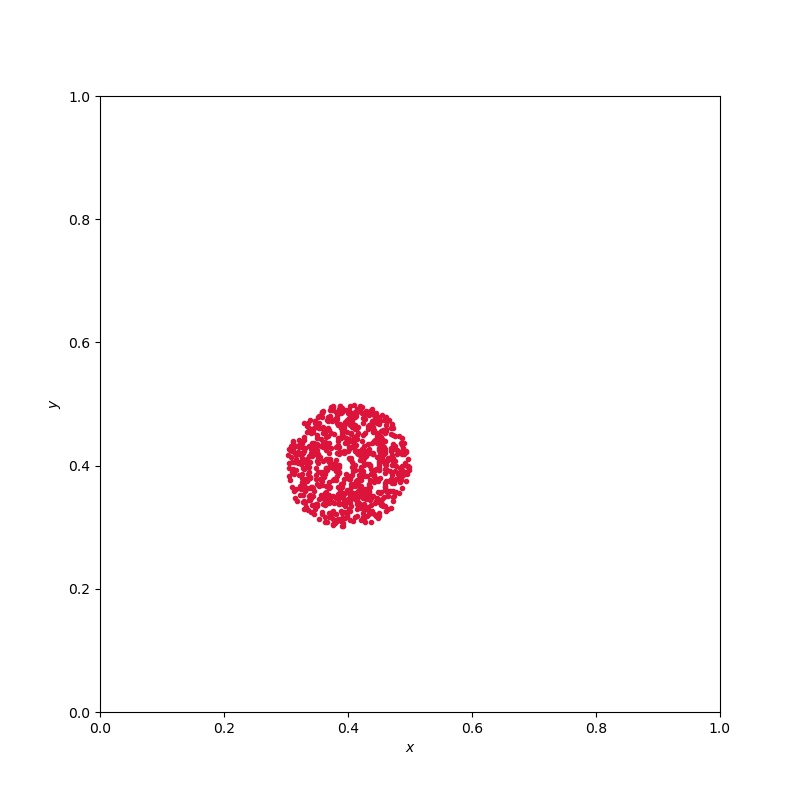
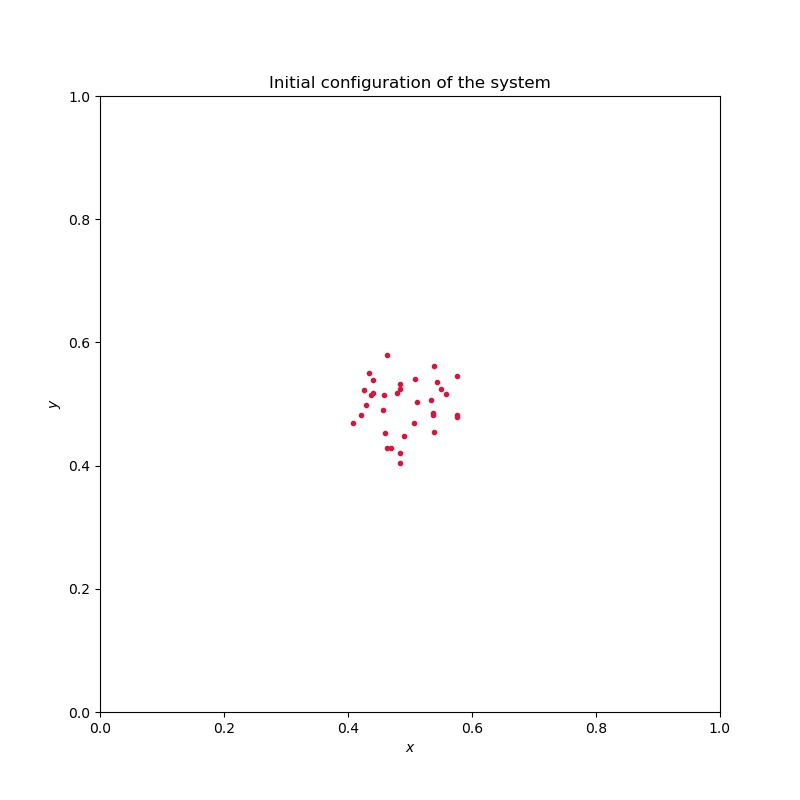
First version of the BHTree created. Needs some revisiongit add .

Changed region(s): [[0.3438, 0.4688, 0.5625, 0.6562], [0.3438, 0.0938, 0.6875, 0.125]]

diff --git a/main/main.py b/main/main.py
@@ -2,6 +2,7 @@
 
 import numpy as np
 import matplotlib.pyplot as plt
+from copy import deepcopy
 
 class Node:
   '''
@@ -15,7 +16,7 @@ class Node:
     represents a body (.child=None) or if the node 
     has child nodes.
     '''
-    self.m = mass
+    self.mass = mass
     self.position = position
     self.r_c = r_c
     # Mass times position. Useful to calculate center of mass
@@ -24,16 +25,45 @@ class Node:
     # Momentum 
     self.momentum = mass*velocity
     self.child = None
+  
+  def reset_localization(self):
+    '''
+    Resets the localization of the body to the 0th-order
+    quadrant which has side = 1.
+    '''
+    self.side = 1.
+    # Defines the relativew position w.r.t. the 0th-order 
+    # quadrant. Note that we use copy in order to not alter 
+    # the position attribute.
+    self.relative_position = self.position.copy()
+
+  def quadrant_localization(self):
+    '''
+    Localizes the node in the next level quadrant.
+    Returns the number of the corresponding quadrant. 
+    '''
+    # Defines the size of the new quadrant
+    self.side = 0.5*self.side 
+    # Defines the relative position w.r.t the new quadrant
+    self.relative_position = 2.*self.relative_position
+    # A variable to store the location information
+    quad = np.zeros(2, dtype=int)  
+    #  Checks the location in both coordinates
+    for i in range(2):
+      if self.relative_position[i]<1.0:
+        quad[i] = 0
+      else:
+        quad[i] = 1
+        self.relative_position[i] = self.relative_position[i] - 1.
+    return quad[1] + 2*quad[0]
 
 
-# MAIN
+# N-BODIES SYSTEM DEFINITION #
+# We will create a system with N-particles localized within a
+# certain radius r_init centered at the point center.
+# The level-0 quadrant corresponds to a square of side = 1.
 
 G = 4*np.pi**2 # Gravitational constant
-
-# We will consider N-bodies with equal masses.
-mass = 1.0
-N = 1000 # Number of bodies
-v_init_max = 0.1 # Maximum initial velocity of the bodies.
 
 # Time Grid
 dt = 1.E-3 # Time-step.
@@ -42,7 +72,15 @@ n = 10000 # Number of time-iterations.
 # The initial distribution is restricted to a circle of radius r_init.
 r_init = 0.1
 # Initial position of the center of the distribution
-center = np.array([0.4, 0.4])
+center = np.array([0.5, 0.5])
+
+# Maximum initial velocity of the bodies.
+v_init_max = 0.1 
+
+
+# We will consider N-bodies with equal masses.
+N = 50 # Number of bodies
+masses = np.ones(N)
 
 # Creation of the N-bodies.
 np.random.seed(1) #Pseudo-random number generator for reproductibility
@@ -56,22 +94,75 @@ init_pos[:,1] = np.random.random(N)*2.*r_init + center[1] - r_init
 init_pos_c = init_pos[:]-center
 r_c = np.linalg.norm(init_pos_c, axis=1)
 
-bodies = []
-# Only the bodies inside a circle of radius r_init are considered.
+
+bodies = [] # List of bodies in the system
+
+# Loop for creating the bodies
 for i in range(N):
+  # Only the bodies inside a circle of radius r_init are considered.
   if r_c[i] < r_init:
     # Initial velocity, proportional to the disctance from the center
     init_vel = np.array([-init_pos_c[i,1], init_pos_c[i,0]])*\
                v_init_max*(r_c[i]/r_init)
-    bodies.append(Node(mass, init_pos[i], init_vel, r_c[i]))
-
+    # Adding the body to the list
+    bodies.append(Node(masses[i], init_pos[i], init_vel, r_c[i]))
 
 print('Total number of bodies: ', len(bodies))
 
 
+def add_body(body, tree_node):
+  '''
+  This function defines the BHTree using three conditions
+  for each body.
+  '''
+  # Minimum allowed size for the qwuadrants
+  minimum_quadrant_side = 1.E-2
+
+  # Condition 1. If tree_node does not contain a body, 
+  # the body is put in there.
+  if tree_node is None:
+    new_node = body 
+  else:
+    new_node = None
+  
+  if tree_node is not None and tree_node.side > minimum_quadrant_side:
+    # Condition 2. If tree_node is an external node (i.e. already 
+    # contains a body but has no child) we create the 4 children
+    # and locate the bodies.
+    if tree_node.child is None:
+      # coopy the tree_node info
+      new_node = deepcopy(tree_node)
+      # Create 4 children (with value None)
+      new_node.child = [None for i in range(4)]
+      # Insert the present body in the appropiate quadrant using the
+      # method .quadrant_localization()
+      quadrant = tree_node.quadrant_localization()
+      new_node.child[quadrant] = tree_node
+      # The second body is localized in the corresponding quadrant in (1)
+    else:
+      # Condition 3. If  tree_node is an internal node (i.e. it already
+      # has children), we do not modify the children. The body will be 
+      # located in the appropiate quadrant in (1)
+      new_node = tree_node
+      
+    # In any of the cases, the mass and position of the center of mass
+    # for the new node are updated
+    new_node.mass += body.mass 
+    new_node.mr += body.mr
+    # (1) The body is localized in the appropiate quadrant using the 
+    # method .quadrant_localization()
+    quadrant = body.quadrant_localization()
+    new_node.child[quadrant] = add_body(body, new_node.child[quadrant])
+  return new_node
 
 
+## First BHTree construction
+root_node = None
 
+for body in bodies:
+  body.reset_localization()
+  root_node = add_body(body, root_node)
+  print(body, root_node)
 
 plt.figure(figsize=(8,8))
 for body in bodies:
@@ -81,5 +172,6 @@ plt.xlim(0,1)
 plt.ylim(0,1)
 plt.xlabel(r'$x$')
 plt.ylabel(r'$y$')
+plt.title('Initial configuration of the system')
 plt.savefig('InitialConfiguration.jpg')
 plt.show()
